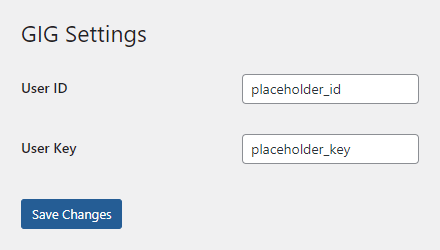
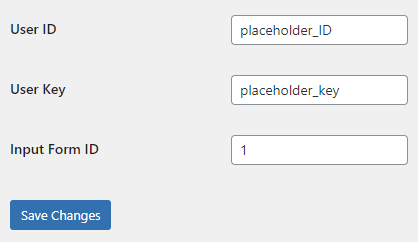
updated README

diff --git a/README.md b/README.md
@@ -29,7 +29,7 @@ Download `gig-custom-plugin.zip` and `generate-page-template.php` from this repo
 
 1. Upon plugin activation, a new tab titled `GIG` will be added to WP admin dashboard `Settings`. Select this page by clicking "Settings" and selecting `GIG`.
     > ![gig-settings-screenshot](screenshots/gig-settings.png)
-2. Enter your API `User ID` and `User Key` in the respective fields.
+2. Enter your API `User ID`, API `User Key`, and `Input Form ID` (ID of the form you want users to use as input for their generations) in the respective fields.
 3. Click `Save Changes`. Your API ID and Key will now be stored in the WordPress Database for future use.
     > ![gig-settings-save-changes-screenshot](screenshots/gig-settings-save-changes.png)
 
